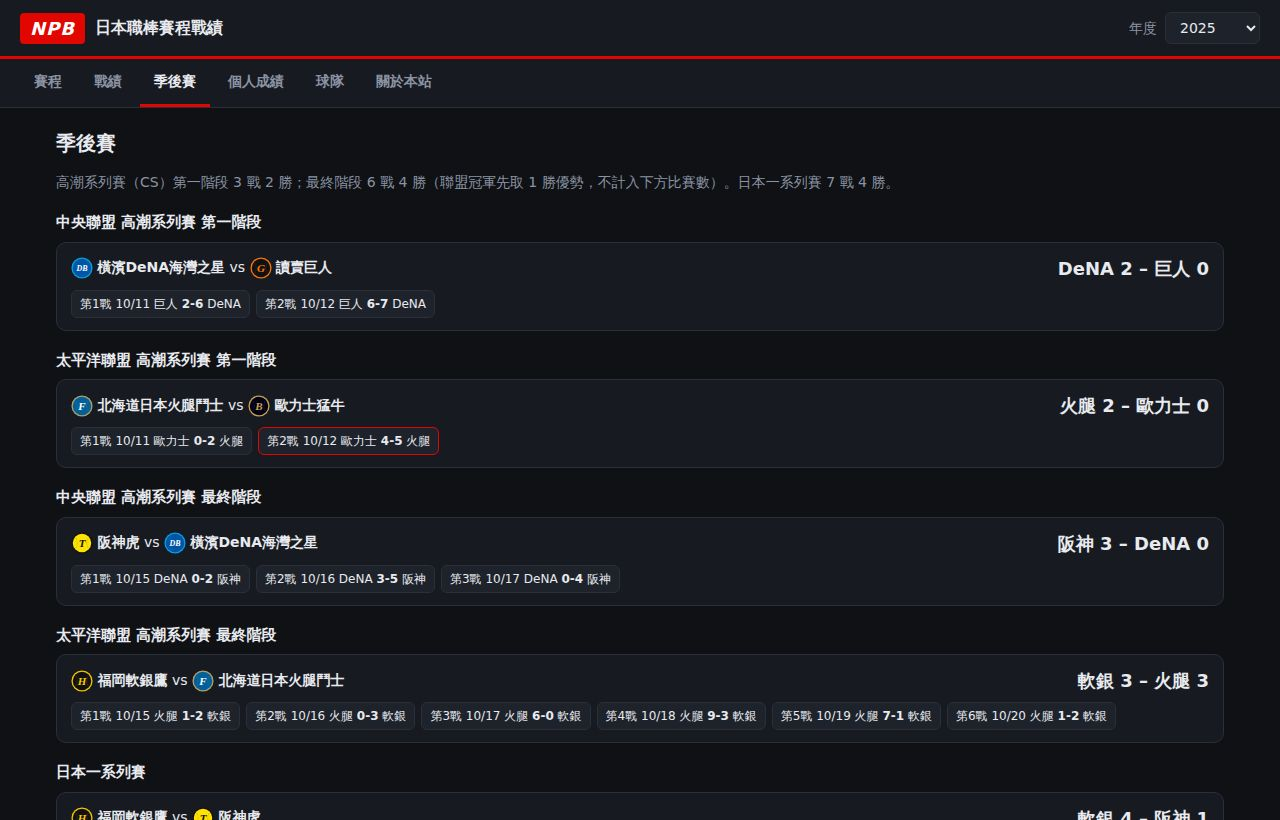
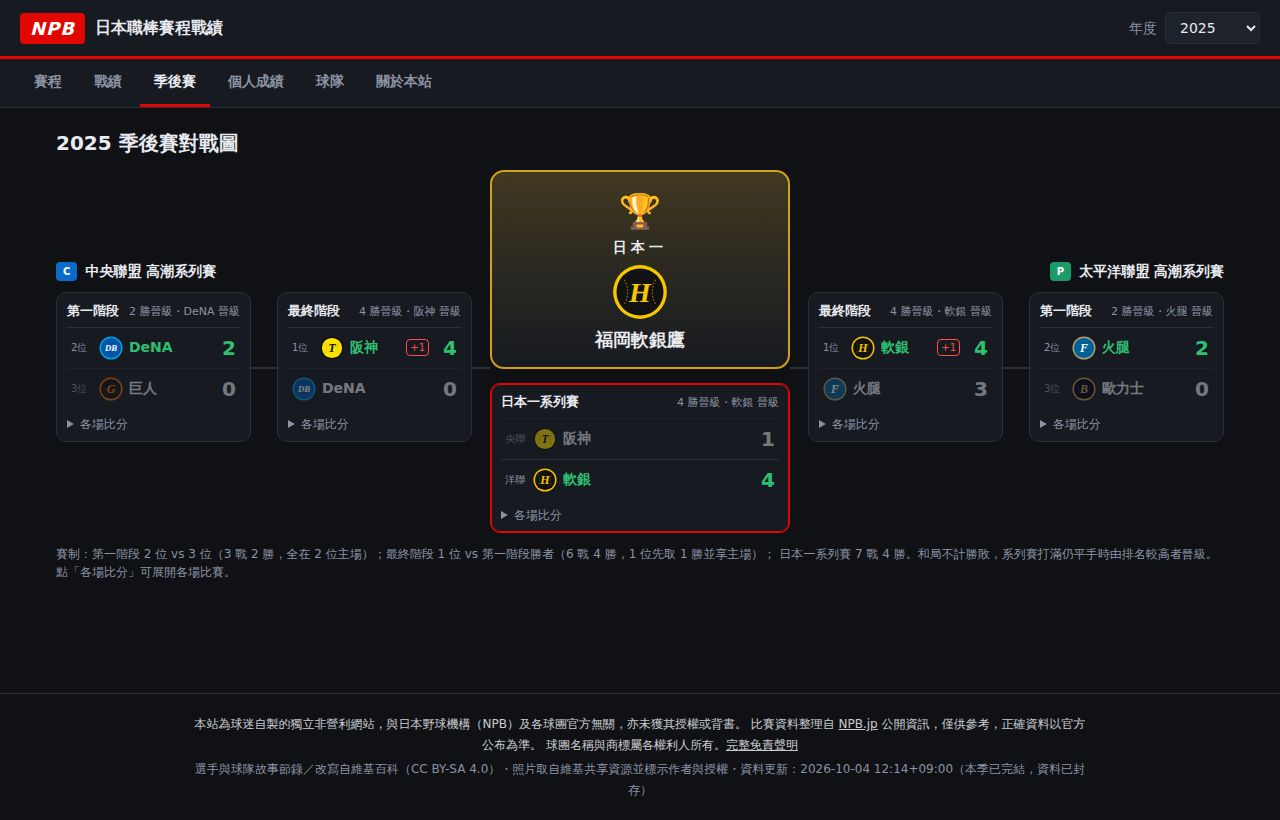
Draw the postseason as a bracket
- Central League on the left, Pacific League on the right, Japan Series and
  champion in the middle
- Each series shows current wins (including the pennant winner's one-win
  advantage) and who advanced; games expand per series
- Before the postseason starts, the bracket is projected from current standings

Claude-Session: https://claude.ai/code/session_01AHZU34M4rS5i3U141sQ3eq

diff --git a/assets/app.js b/assets/app.js
@@ -368,44 +368,112 @@ function drawRace(el, rows) {
   svg.addEventListener('pointerleave', () => { tip.hidden = true; xh.setAttribute('visibility', 'hidden'); });
 }
 
-/* ------------------------------------------------------------ 季後賽 */
-function renderPostseason() {
-  const post = state.sched.games.filter(g => STAGE_ORDER.includes(g.stage));
-  if (!post.length) {
-    $('#app').innerHTML = '<p class="empty">本年度尚無季後賽賽程</p>';
-    return;
+/* ------------------------------------------------------------ 季後賽（樹狀對戰圖） */
+// 賽制：CS 第一階段（2 位 vs 3 位，3 戰 2 勝）→ CS 最終階段（1 位 vs 第一階段勝者，6 戰 4 勝，1 位先取 1 勝）
+//       → 日本一系列賽（兩聯盟 CS 勝者，7 戰 4 勝）。和局不計勝敗；系列賽打完仍平手時由排名較高者晉級。
+const SERIES_RULE = { cs1: { need: 2, max: 3 }, cs2: { need: 4, max: 6 }, js: { need: 4, max: 8 } };
+
+function buildSeries(stage, teams, games, adv = {}) {
+  // teams：[上方（排名較高／主場）, 下方]；可能含 null（尚未決定）
+  const wins = Object.fromEntries(teams.filter(Boolean).map(t => [t, adv[t] || 0]));
+  let ties = 0, played = 0;
+  for (const g of games) {
+    if (g.status !== 'final') continue;
+    played++;
+    if (g.awayScore === g.homeScore) ties++;
+    else if (wins[g.awayScore > g.homeScore ? g.away : g.home] != null) wins[g.awayScore > g.homeScore ? g.away : g.home]++;
   }
-  const groups = new Map();
-  for (const g of post) {
-    const lg = g.stage === 'js' ? 'JS' : (TEAMS[g.home]?.lg || '');
-    const key = `${g.stage}|${lg}|${[g.away, g.home].sort().join('-')}`;
-    if (!groups.has(key)) groups.set(key, { stage: g.stage, name: g.stageName, lg, games: [] });
-    groups.get(key).games.push(g);
-  }
-  const sorted = [...groups.values()].sort((a, b) =>
-    STAGE_ORDER.indexOf(a.stage) - STAGE_ORDER.indexOf(b.stage) || a.lg.localeCompare(b.lg));
-  let html = '<h2>季後賽</h2><p class="status" style="color:var(--muted)">高潮系列賽（CS）第一階段 3 戰 2 勝；最終階段 6 戰 4 勝（聯盟冠軍先取 1 勝優勢，不計入下方比賽數）。日本一系列賽 7 戰 4 勝。</p>';
-  let cur = '';
-  for (const s of sorted) {
-    const title = s.stage === 'js' ? s.name : `${LEAGUES[s.lg] || ''} ${s.name}`;
-    if (title !== cur) { html += `<h3>${esc(title)}</h3>`; cur = title; }
-    const teams = [...new Set(s.games.flatMap(g => [g.home, g.away]))];
-    const wins = Object.fromEntries(teams.map(t => [t, 0]));
-    let ties = 0;
-    for (const g of s.games) {
-      if (g.status !== 'final') continue;
-      if (g.awayScore === g.homeScore) ties++;
-      else wins[g.awayScore > g.homeScore ? g.away : g.home]++;
+  const rule = SERIES_RULE[stage];
+  let winner = teams.find(t => t && wins[t] >= rule.need) || null;
+  // 規定場數打完仍未分出（和局造成）：排名較高者晉級（日本一系列賽則加賽，不在此判定）
+  if (!winner && stage !== 'js' && played >= rule.max && teams[0] && teams[1] && wins[teams[0]] >= wins[teams[1]]) winner = teams[0];
+  return { stage, teams, wins, adv, ties, games, winner, started: played > 0 };
+}
+
+function postseasonBracket() {
+  const games = state.sched.games;
+  const post = games.filter(g => ['cs1', 'cs2', 'cs', 'js'].includes(g.stage));
+  const st = computeStandings(games);
+  const regularDone = !games.some(g => g.stage === 'regular' && g.status === 'scheduled');
+  const lg = c => TEAMS[c]?.lg;
+  const side = {};
+  for (const L of ['C', 'P']) {
+    const top3 = (st[L] || []).slice(0, 3).map(r => r.code);
+    const cs1Games = post.filter(g => g.stage === 'cs1' && lg(g.home) === L);
+    const cs2Games = post.filter(g => (g.stage === 'cs2' || g.stage === 'cs') && lg(g.home) === L);
+    // 實際參賽隊伍優先；沒有比賽時用目前排名推定
+    const cs1Teams = cs1Games.length ? [cs1Games[0].home, cs1Games[0].away] : [top3[1] || null, top3[2] || null];
+    const s1 = buildSeries('cs1', cs1Teams, cs1Games);
+    let leader = top3[0] || null;
+    if (cs2Games.length) {
+      const inFinal = [...new Set(cs2Games.flatMap(g => [g.home, g.away]))];
+      leader = inFinal.find(t => !cs1Teams.includes(t)) || cs2Games[0].home;
     }
-    html += `<div class="series"><div class="series-head">
-      <div>${teams.map(t => `${dot(t)} <b>${esc(team(t).zh)}</b>`).join(' vs ')}</div>
-      <div class="series-score">${teams.map(t => `${esc(team(t).s)} ${wins[t]}`).join(' – ')}${ties ? `（和 ${ties}）` : ''}</div></div>
-      <div class="series-games">${s.games.map((g, i) => `<span class="sg" ${g.hasBox ? `data-game="${esc(g.id)}"` : ''}>
-        第${i + 1}戰 ${g.date.slice(5).replace('-', '/')} ${esc(team(g.away).s)}
-        <b>${g.status === 'final' ? `${g.awayScore}-${g.homeScore}` : g.status === 'postponed' ? '延賽' : esc(g.time || 'vs')}</b>
-        ${esc(team(g.home).s)}</span>`).join('')}</div></div>`;
+    const challenger = s1.winner || (cs2Games.length ? cs2Games.flatMap(g => [g.home, g.away]).find(t => t !== leader) : null);
+    const s2 = buildSeries('cs2', [leader, challenger || null], cs2Games, leader ? { [leader]: 1 } : {});
+    side[L] = { s1, s2, projected: !post.some(g => lg(g.home) === L), regularDone };
   }
-  $('#app').innerHTML = html;
+  const jsGames = post.filter(g => g.stage === 'js');
+  let jsTeams = [side.C.s2.winner, side.P.s2.winner];
+  if (jsGames.length) {
+    const t = [...new Set(jsGames.flatMap(g => [g.home, g.away]))];
+    jsTeams = [t.find(x => lg(x) === 'C') || jsTeams[0], t.find(x => lg(x) === 'P') || jsTeams[1]];
+  }
+  const js = buildSeries('js', jsTeams, jsGames);
+  return { side, js, any: post.length > 0, regularDone };
+}
+
+function seriesBox(s, title, opts = {}) {
+  const rule = SERIES_RULE[s.stage];
+  const row = (t, i) => {
+    if (!t) return `<div class="bt tbd"><span class="seed">${opts.seeds?.[i] || ''}</span><span class="nm">待定</span><b>-</b></div>`;
+    const lost = s.winner && s.winner !== t;
+    return `<div class="bt ${s.winner === t ? 'win' : ''} ${lost ? 'out' : ''}">
+      ${opts.seeds?.[i] ? `<span class="seed">${opts.seeds[i]}</span>` : ''}${logo(t, 24)}
+      <a class="nm tlink" href="#/${state.year}/teams/${t}">${esc(team(t).s)}</a>
+      ${s.adv[t] ? '<span class="adv" title="聯盟冠軍先取 1 勝">+1</span>' : ''}<b>${s.wins[t] ?? 0}</b></div>`;
+  };
+  const status = s.winner ? `${esc(team(s.winner).s)} 晉級` : s.started ? '進行中' : '未開打';
+  const chips = s.games.map((g, i) => `<span class="sg ${g.hasBox ? '' : 'nobox'}" ${g.hasBox ? `data-game="${esc(g.id)}"` : ''}>
+      ${i + 1}戰 ${g.date.slice(5).replace('-', '/')} ${g.status === 'final' ? `<b>${esc(team(g.away).s)} ${g.awayScore}-${g.homeScore} ${esc(team(g.home).s)}</b>` : g.status === 'postponed' ? '延賽' : `${esc(team(g.away).s)} @ ${esc(team(g.home).s)} ${esc(g.time || '')}`}</span>`).join('');
+  return `<div class="bbox ${opts.cls || ''}">
+    <div class="bhead"><span>${title}</span><small>${rule.need} 勝晉級・${status}${s.ties ? `・和 ${s.ties}` : ''}</small></div>
+    ${row(s.teams[0], 0)}${row(s.teams[1], 1)}
+    ${chips ? `<details class="bgames"><summary>各場比分</summary><div class="series-games">${chips}</div></details>` : ''}
+  </div>`;
+}
+
+function renderPostseason() {
+  const b = postseasonBracket();
+  const champ = b.js.winner;
+  const projected = !b.any;
+  const sideHtml = (L) => {
+    const s = b.side[L];
+    return `<div class="bcol first">${seriesBox(s.s1, '第一階段', { seeds: ['2位', '3位'] })}</div>
+      <div class="bcol final">${seriesBox(s.s2, '最終階段', { seeds: ['1位', ''] })}</div>`;
+  };
+  $('#app').innerHTML = `<h2>${state.year} 季後賽對戰圖</h2>
+    ${projected ? `<p class="notice">${b.regularDone ? '季後賽尚未排定。' : '例行賽尚未結束，'}以下依目前排名顯示預定的對戰組合，實際對戰以官方公布為準。</p>` : ''}
+    <div class="bracket">
+      <div class="bside left">
+        <div class="blabel"><span class="tag c">C</span> 中央聯盟 高潮系列賽</div>
+        <div class="bcols">${sideHtml('C')}</div>
+      </div>
+      <div class="bcenter">
+        <div class="trophy ${champ ? 'done' : ''}">
+          <div class="cup">🏆</div>
+          <div class="label">日本一</div>
+          ${champ ? `<div class="champ">${logo(champ, 56)}<div>${teamLink(champ)}</div></div>` : '<div class="muted small">尚未產生</div>'}
+        </div>
+        ${seriesBox(b.js, '日本一系列賽', { cls: 'js', seeds: ['央聯', '洋聯'] })}
+      </div>
+      <div class="bside right">
+        <div class="blabel"><span class="tag p">P</span> 太平洋聯盟 高潮系列賽</div>
+        <div class="bcols">${sideHtml('P')}</div>
+      </div>
+    </div>
+    <p class="muted small">賽制：第一階段 2 位 vs 3 位（3 戰 2 勝，全在 2 位主場）；最終階段 1 位 vs 第一階段勝者（6 戰 4 勝，1 位先取 1 勝並享主場）；
+      日本一系列賽 7 戰 4 勝。和局不計勝敗，系列賽打滿仍平手時由排名較高者晉級。點「各場比分」可展開各場比賽。</p>`;
   bindGameClicks();
 }
 

diff --git a/assets/style.css b/assets/style.css
@@ -262,3 +262,50 @@ tr.total td { font-weight: 700; background: var(--panel-2); }
 .about .lead { font-size: 16px; font-weight: 700; padding: 14px 16px; background: var(--panel); border-left: 4px solid var(--accent); border-radius: 8px; }
 .about h3 { margin-top: 22px; }
 .about li { margin-bottom: 6px; }
+
+/* 季後賽樹狀對戰圖：央聯在左、洋聯在右（鏡像），中間日本一系列賽 */
+.bracket { display: grid; grid-template-columns: 1fr minmax(240px, 300px) 1fr; gap: 18px; align-items: center; }
+.bside .blabel { font-weight: 800; margin-bottom: 10px; display: flex; align-items: center; gap: 8px; }
+.bside.right .blabel { justify-content: flex-end; }
+.bcols { display: grid; grid-template-columns: 1fr 1fr; gap: 26px; align-items: center; }
+.bside.right .bcols { direction: rtl; }
+.bside.right .bcols > * { direction: ltr; }
+.bcol { position: relative; }
+/* 連接線：第一階段 → 最終階段 → 日本一 */
+.bcol.first::after, .bcol.final::after { content: ""; position: absolute; top: 50%; width: 26px; border-top: 2px solid var(--line); }
+.bside.left .bcol::after { right: -26px; }
+.bside.right .bcol::after { left: -26px; }
+.bcol.final::after { width: 18px; }
+.bside.left .bcol.final::after { right: -18px; }
+.bside.right .bcol.final::after { left: -18px; }
+.bbox { background: var(--panel); border: 1px solid var(--line); border-radius: var(--radius); padding: 8px 10px; }
+.bbox.js { border-color: var(--accent); box-shadow: 0 0 0 1px var(--accent) inset; }
+.bhead { display: flex; justify-content: space-between; align-items: baseline; gap: 6px; font-weight: 800; font-size: 13px; margin-bottom: 6px; }
+.bhead small { color: var(--muted); font-weight: 500; font-size: 11px; }
+.bt { display: flex; align-items: center; gap: 6px; padding: 5px 4px; border-top: 1px solid var(--line); }
+.bt .nm { flex: 1; font-weight: 700; text-decoration: none; }
+.bt b { font-size: 20px; font-variant-numeric: tabular-nums; min-width: 22px; text-align: right; }
+.bt .seed { font-size: 10px; color: var(--muted); min-width: 22px; }
+.bt .adv { font-size: 10px; color: var(--accent-2); border: 1px solid var(--accent-2); border-radius: 4px; padding: 0 3px; }
+.bt.win .nm, .bt.win b { color: var(--win); }
+.bt.out { opacity: .45; }
+.bt.tbd .nm { color: var(--muted); font-weight: 500; }
+.bgames { margin-top: 6px; font-size: 12px; }
+.bgames summary { cursor: pointer; color: var(--muted); }
+.bgames .series-games { margin-top: 6px; flex-direction: column; }
+.sg.nobox { cursor: default; }
+.bcenter { display: flex; flex-direction: column; gap: 14px; }
+.trophy { text-align: center; padding: 14px; border-radius: 14px; background: var(--panel); border: 1px dashed var(--line); }
+.trophy.done { border: 2px solid #d4a017; background: linear-gradient(180deg, color-mix(in srgb, #d4a017 22%, var(--panel)), var(--panel)); }
+.trophy .cup { font-size: 34px; }
+.trophy .label { font-weight: 900; letter-spacing: 4px; margin-bottom: 6px; }
+.trophy .champ { display: flex; flex-direction: column; align-items: center; gap: 6px; font-weight: 900; font-size: 18px; }
+.notice { background: var(--panel); border-left: 4px solid var(--accent); padding: 10px 14px; border-radius: 8px; }
+@media (max-width: 1000px) {
+  .bracket { grid-template-columns: 1fr; }
+  .bcenter { order: 2; } .bside.right { order: 3; }
+  .bside.right .blabel { justify-content: flex-start; }
+  .bside.right .bcols { direction: ltr; }
+  .bcol::after { display: none; }
+}
+@media (max-width: 560px) { .bcols { grid-template-columns: 1fr; gap: 10px; } }

diff --git a/README.md b/README.md
@@ -9,7 +9,7 @@
 | 賽程（下一場倒數、預告先發） | 戰績與貯金走勢 |
 |:---:|:---:|
 | [![賽程](docs/screenshots/schedule.jpg)](https://toothbrushh.github.io/NPB/#/2026/schedule) | [![戰績](docs/screenshots/standings.jpg)](https://toothbrushh.github.io/NPB/#/2026/standings) |
-| **單場數據（逐局比分、每打席結果）** | **季後賽（2025 高潮系列賽、日本一系列賽）** |
+| **單場數據（逐局比分、每打席結果）** | **季後賽樹狀對戰圖（2025）** |
 | [![單場數據](docs/screenshots/game.jpg)](https://toothbrushh.github.io/NPB/#/2026/schedule) | [![季後賽](docs/screenshots/postseason.jpg)](https://toothbrushh.github.io/NPB/#/2025/postseason) |
 | **個人成績（NPB 官方年度成績）** | **球隊頁（球隊故事、出賽球員）** |
 | [![個人成績](docs/screenshots/players.jpg)](https://toothbrushh.github.io/NPB/#/2025/players) | [![球隊](docs/screenshots/team.jpg)](https://toothbrushh.github.io/NPB/#/2026/teams/T) |
@@ -36,7 +36,7 @@
 - **單場數據**：點擊比賽卡片可看逐局比分、球場、觀眾數、比賽時間、勝敗救援投手、全壘打，雙方打者名單與當場打擊數據（含每個打席的結果），投手當場數據（含用球數）。
 - **未賽比賽**：顯示開賽時間、球場與預告先發投手。
 - **戰績**：中央聯盟／太平洋聯盟排名（勝率、勝差、主客場、交流戰、得失分、剩餘場次、近 10 場、連勝敗）與「貯金」走勢圖。
-- **季後賽**：各系列賽對戰組合與勝場數。
+- **季後賽**：樹狀對戰圖，央聯在左、洋聯在右，中間為日本一系列賽與冠軍；顯示各組對戰的勝場數（含聯盟冠軍先取 1 勝）、晉級隊伍，可展開各場比分。季後賽開打前依目前排名顯示預定組合。
 - **個人成績**：NPB 官方年度打擊／投手成績（打擊率、上壘率、長打率、防禦率、中繼…），可排序、篩選球隊、只看達規定打席／局數者。
 - **球隊頁**：球隊徽章、中文／日文隊名、創立年、所在地、主場、官網連結、維基百科「球隊故事」（節錄／改寫並標示出處）、本季出賽球員、對各隊成績、全季賽程。
 - **選手頁**：維基共享資源自由授權照片（標示作者與授權）、全名與假名、背號、守備位置、生日等個人資料、本站撰寫的「選手簡介」、維基百科「選手故事」、年度成績、逐場紀錄（點擊可開啟該場比賽）。比分表、個人成績表中的姓名都可點進選手頁。
